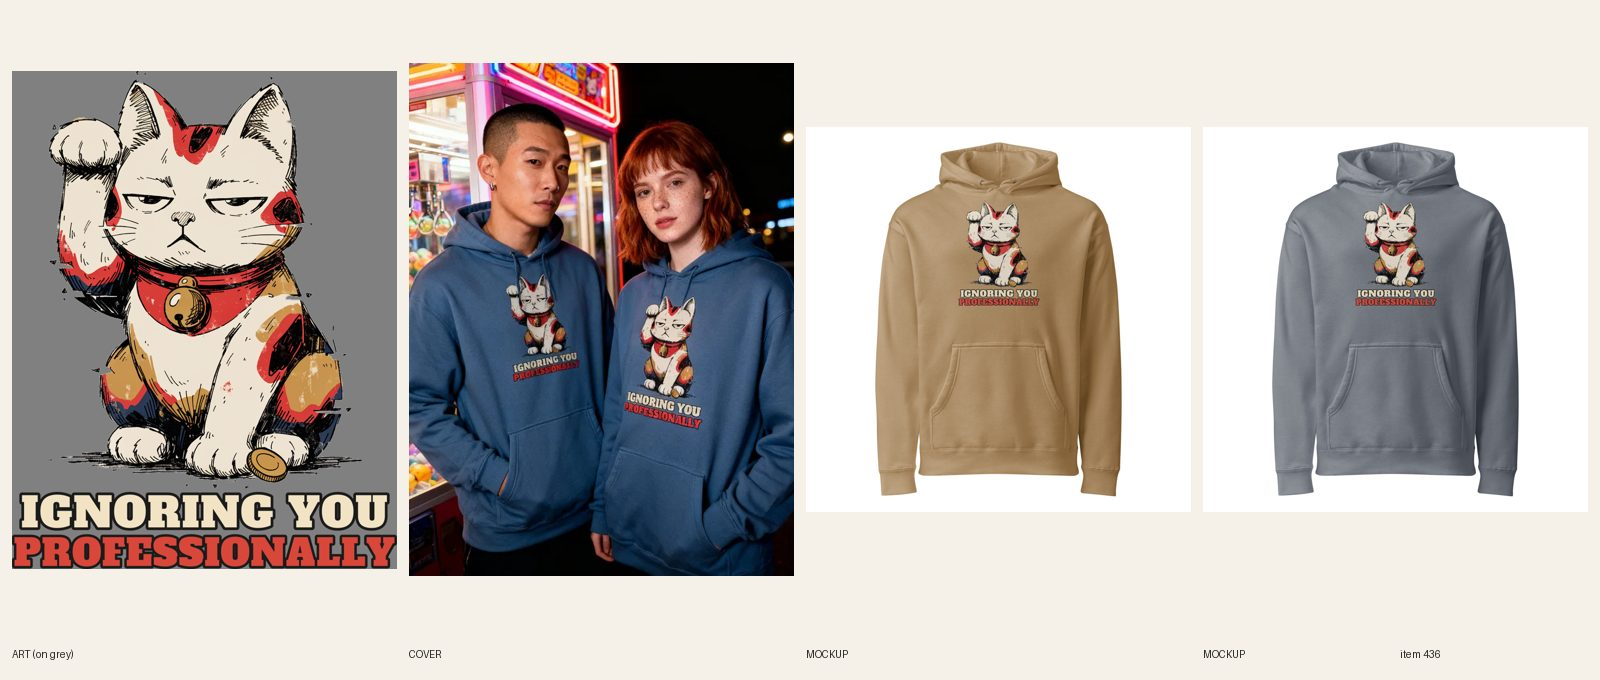
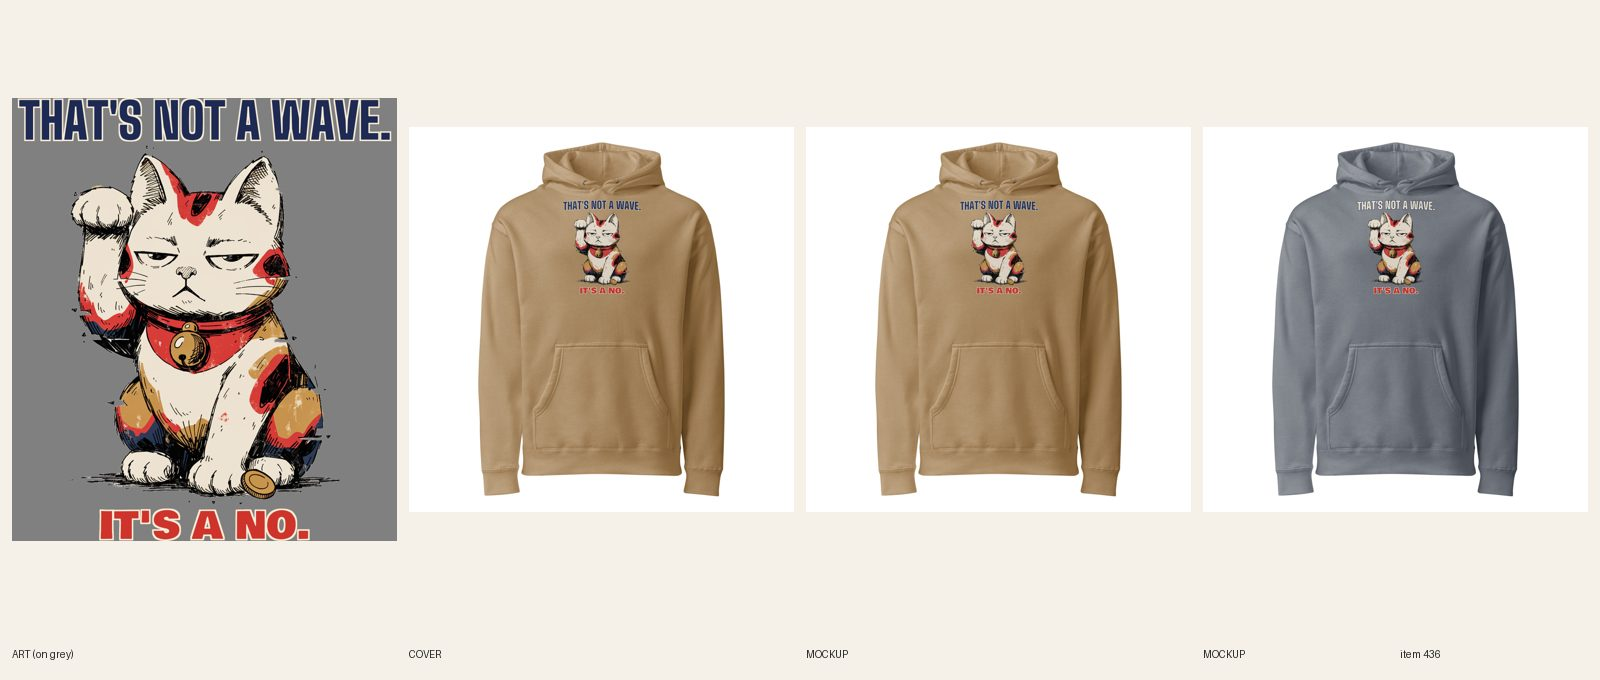
[C] review 436 (redo)
Claude-Session: https://claude.ai/code/session_01CCHcDj8LcJJ8qUPtKE3cvn

Changed region(s): [[0.0, 0.0926, 0.5, 0.8647], [0.8438, 0.2779, 0.9062, 0.4632], [0.5938, 0.2779, 0.6562, 0.4632]]

diff --git a/designs/c436/make.py b/designs/c436/make.py
@@ -1,0 +1,36 @@
+from PIL import Image, ImageDraw, ImageFont, ImageFilter
+FD='designs/fonts/'
+RED=(196,52,44,255); NAVY=(30,42,84,255); RED=(206,52,44,255); CREAM=(246,236,214,255); BROWN=(58,36,24,255)
+def line(text,font,wfrac,W,fill,key,kw=31,track=0,var=None):
+    def mk(sz):
+        f=ImageFont.truetype(FD+font,sz)
+        if var: f.set_variation_by_axes(var)
+        return f
+    f=mk(800); adv=[f.getlength(c) for c in text]
+    tot=sum(adv)+track*(len(text)-1); size=int(800*W*wfrac/tot)
+    f=mk(size); adv=[f.getlength(c) for c in text]; tr=int(track*size/800)
+    asc,desc=f.getmetrics(); tot=int(sum(adv)+tr*(len(text)-1))
+    pad=80; im=Image.new('RGBA',(tot+2*pad,asc+desc+2*pad),(0,0,0,0))
+    def draw(layer,col):
+        d=ImageDraw.Draw(layer); x=pad
+        for c,a in zip(text,adv): d.text((x,pad),c,font=f,fill=col); x+=a+tr
+    k=Image.new('L',im.size,0); d=ImageDraw.Draw(k); x=pad
+    for c,a in zip(text,adv): d.text((x,pad),c,font=f,fill=255); x+=a+tr
+    k=k.filter(ImageFilter.MaxFilter(kw)); im.paste(Image.new('RGBA',im.size,key),(0,0),k)
+    draw(im,fill)
+    return im.crop(im.getbbox())
+def build(tag,c1,k1,bgc):
+    src=Image.open('docs/print-files/436-ignoring-you-professionally.png').convert('RGBA'); W=src.width
+    art=src.crop((0,0,W,3735)); art=art.crop(art.getbbox()); sc=0.86; art=art.resize((int(art.width*sc),int(art.height*sc)),Image.LANCZOS)
+    h1=line("THAT'S NOT A WAVE.",'BigShouldersDisplay[wght].ttf',0.97,W,c1,k1,kw=27,var=[900])
+    h2=line("IT'S A NO.",'BowlbyOne-Regular.ttf',0.55,W,RED,CREAM,kw=29)
+    print(tag,'h1',h1.size,'h2',h2.size,'ratio h2/h1',h2.height/h1.height)
+    g=36; H=h1.height+g+art.height+g+h2.height
+    out=Image.new('RGBA',(W,H),(0,0,0,0))
+    out.alpha_composite(h1,((W-h1.width)//2,0)); y=h1.height+g
+    out.alpha_composite(art,((W-art.width)//2,y)); y+=art.height+g
+    out.alpha_composite(h2,((W-h2.width)//2,y))
+    out.save(f'docs/print-files/436-v2-no-wave-{tag}.png'); print(out.size,H/W)
+    bg=Image.new('RGBA',out.size,bgc); bg.alpha_composite(out); bg.convert('RGB').resize((600,int(600*H/W))).save(f'designs/c436/prev_{tag}.png')
+build('sandstone',NAVY,CREAM,(190,160,120,255))
+build('storm',CREAM,NAVY,(86,112,148,255))

diff --git a/docs/pipeline/436-anime-heavyweight-hoodie-talk-to-the-paw.md b/docs/pipeline/436-anime-heavyweight-hoodie-talk-to-the-paw.md
@@ -1,4 +1,4 @@
-status: REDO
+status: REVIEW
 lane: C
 type: new
 id: 436
@@ -33,3 +33,4 @@ kd: 20
 - 2026-10-17 20:24 UTC builder [C]: REVIEW. Sync 14/14. Sheet docs/review/436.jpg. design-crops and variant-photo audit cover published products only: rerun when ACTIVE. Local cohesion audit not run (no spec file); copy checked by hand against the art. Cover: try 1 kept, one drawstring crosses the man's cat ear slightly (try 2 had cords across both prints); director may want a redo.
 - 2026-10-17 21:19 UTC director: LIVE. sheet seen: maneki-neko cat ignoring you, IGNORING YOU PROFESSIONALLY reads at FW 1600; unisex couple at an arcade. Director call on the line: the art was built (20:05) before the 20:25 note asked for 'Do Not Perceive Me'; kept 'Ignoring You Professionally' because it fits the stopped-waving lucky cat and is fresher than the 'Do Not Perceive Me' line that is all over Etsy (R3.7.2). No rebuild. ACTIVE + Online Store, Headless, Google & YouTube; audit --handle PASS.
 - 2026-10-18 17:22 UTC director: QUALITY RESET grade C (new line + type), REDO. The product stays ACTIVE (same handle, URL, title keyword). 1. Line (R3.12, quality-reset 'Lines'): "IGNORING YOU / PROFESSIONALLY": Repeated "professionally" formula; mild cat-attitude line. Write 5 candidates, keep the one a stranger laughs at in 3 seconds without backstory; kill lines that only describe the picture; if none of the 5 is funny, PARK it. 2. Quality reset type bar (docs/backlog/quality-reset.md, 'The new bar'): headline at least 90% of the art width, heavy, colors pulled from the art; second line at least 45% of the headline's height, never a thin script on a dark or mid garment; use the lettering as a shape (arch, stacked lockup, words breaking into the art), not a plain bar above and a script line below; no font used on more than 1 in 6 of the last 30 designs. 3. Keep the art if it carries the new line, else one new illustration (R4/R5). New print means a new cover per R6.10, copy line one rewritten for the new joke (R8.3), and a fresh review sheet (R7.7). While quality-reset.md says PAUSED, only lane A builds, and only the samples step 2 names.
+- 2026-10-20 11:05 UTC builder [C]: REDO new line + type (grade C). 5 candidates: "THAT'S NOT A WAVE. / IT'S A NO." (kept: it flips the lucky-cat wave, any stranger gets it), "IGNORING YOU PROFESSIONALLY" (old formula), "TALK TO THE PAW" (stock), "LUCKY CAT. NOT LUCKY YOU.", "OFFICE HOURS ARE OVER". Same maneki neko art (scaled 86% to fit with the lines). THAT'S NOT A WAVE. Big Shoulders Display Black 97% of the print width; IT'S A NO. Bowlby One 55% width, red with cream keyline (75% of the headline's height). Light-file (R5.3.8): Sandstone file 1090180837 has the headline navy with a cream keyline; Storm Blue file 1090180889 has it cream with a navy keyline (docs/print-files/436-v2-no-wave-sandstone.png / -storm.png); logged: light file Sandstone on file 1090180837, headline fill navy. Print 3434 x 3951, FW 1600 TOP 20 (about 1,840 px high, inside the 2100 area), 14/14 relinked per color. 2 fronts replaced in place, read at phone size. Copy, FAQ and SEO rewritten for the new line; keyword maneki neko hoodie kept. Plain product shot. fal $0.

diff --git a/docs/intake-log.md b/docs/intake-log.md
@@ -28,6 +28,7 @@ RUNNING lane B since 2026-10-20 03:28 UTC
 2026-10-20 03:41 UTC — [B] Builder run: redid #362 Women's Baseball hoodie (line + type: MISSED THE PLAY. / SEEDS WERE GOOD., same art, Bowlby One, Navy + Sand light files, 12/12 synced). REVIEW. fal $0.
 2026-10-20 05:26 UTC — [E] Builder run: redid #388 Women's Christmas crewneck (line + type: SORRY, I'M BOOKED TILL JANUARY., new party-calendar art, Navy + Sand files, 12/12 synced, copy updated, plain product shot). REVIEW. fal $0.08.
 RUNNING lane C since 2026-10-20 03:23 UTC
+2026-10-20 11:07 UTC — [C] Builder run: redid #436 Unisex Anime maneki neko heavyweight hoodie (new line + type: THAT'S NOT A WAVE. / IT'S A NO., Big Shoulders + Bowlby, same cat art, Sandstone file 1090180837 + Storm Blue file 1090180889, FW 1600 TOP 20, 14/14 relinked, 2 fronts replaced in place, copy + SEO updated, plain product shot). REVIEW. fal $0.
 2026-10-20 10:32 UTC — [C] Builder run: redid #620 Women's Christmas capybara zip hoodie (new line + type: I'M NOT STUCK. / I'M DECORATED., Fraunces Black + Bevan, same lights art, back file 1090177287, 12/12 relinked, 2 back mockups replaced in place, copy + SEO updated, plain product shot). REVIEW. fal $0.
 2026-10-20 09:57 UTC — [C] Builder run: redid #563 Women's Gigi hoodie (type only: GIGI Alfa Slab + BECAUSE GRANDMA SOUNDED OLD. Oswald Bold, same handbag art, file 1090174683, FW 1500 TOP 0, 12/12 relinked, 2 fronts replaced in place, copy updated, plain product shot). REVIEW. fal $0.
 2026-10-20 09:22 UTC — [C] Builder run: redid #448 Men's Wizard grill zip hoodie (new line + type: ABRA-KEBAB-RA! / GRILL WIZARD, Alfa Slab + Fraunces, same wizard art, Ash file 1090170117 + Navy file 1090170188, BW 1560 BT 225, 12/12 relinked, back mockups updated, copy + SEO updated, plain product shot). REVIEW. fal $0.
